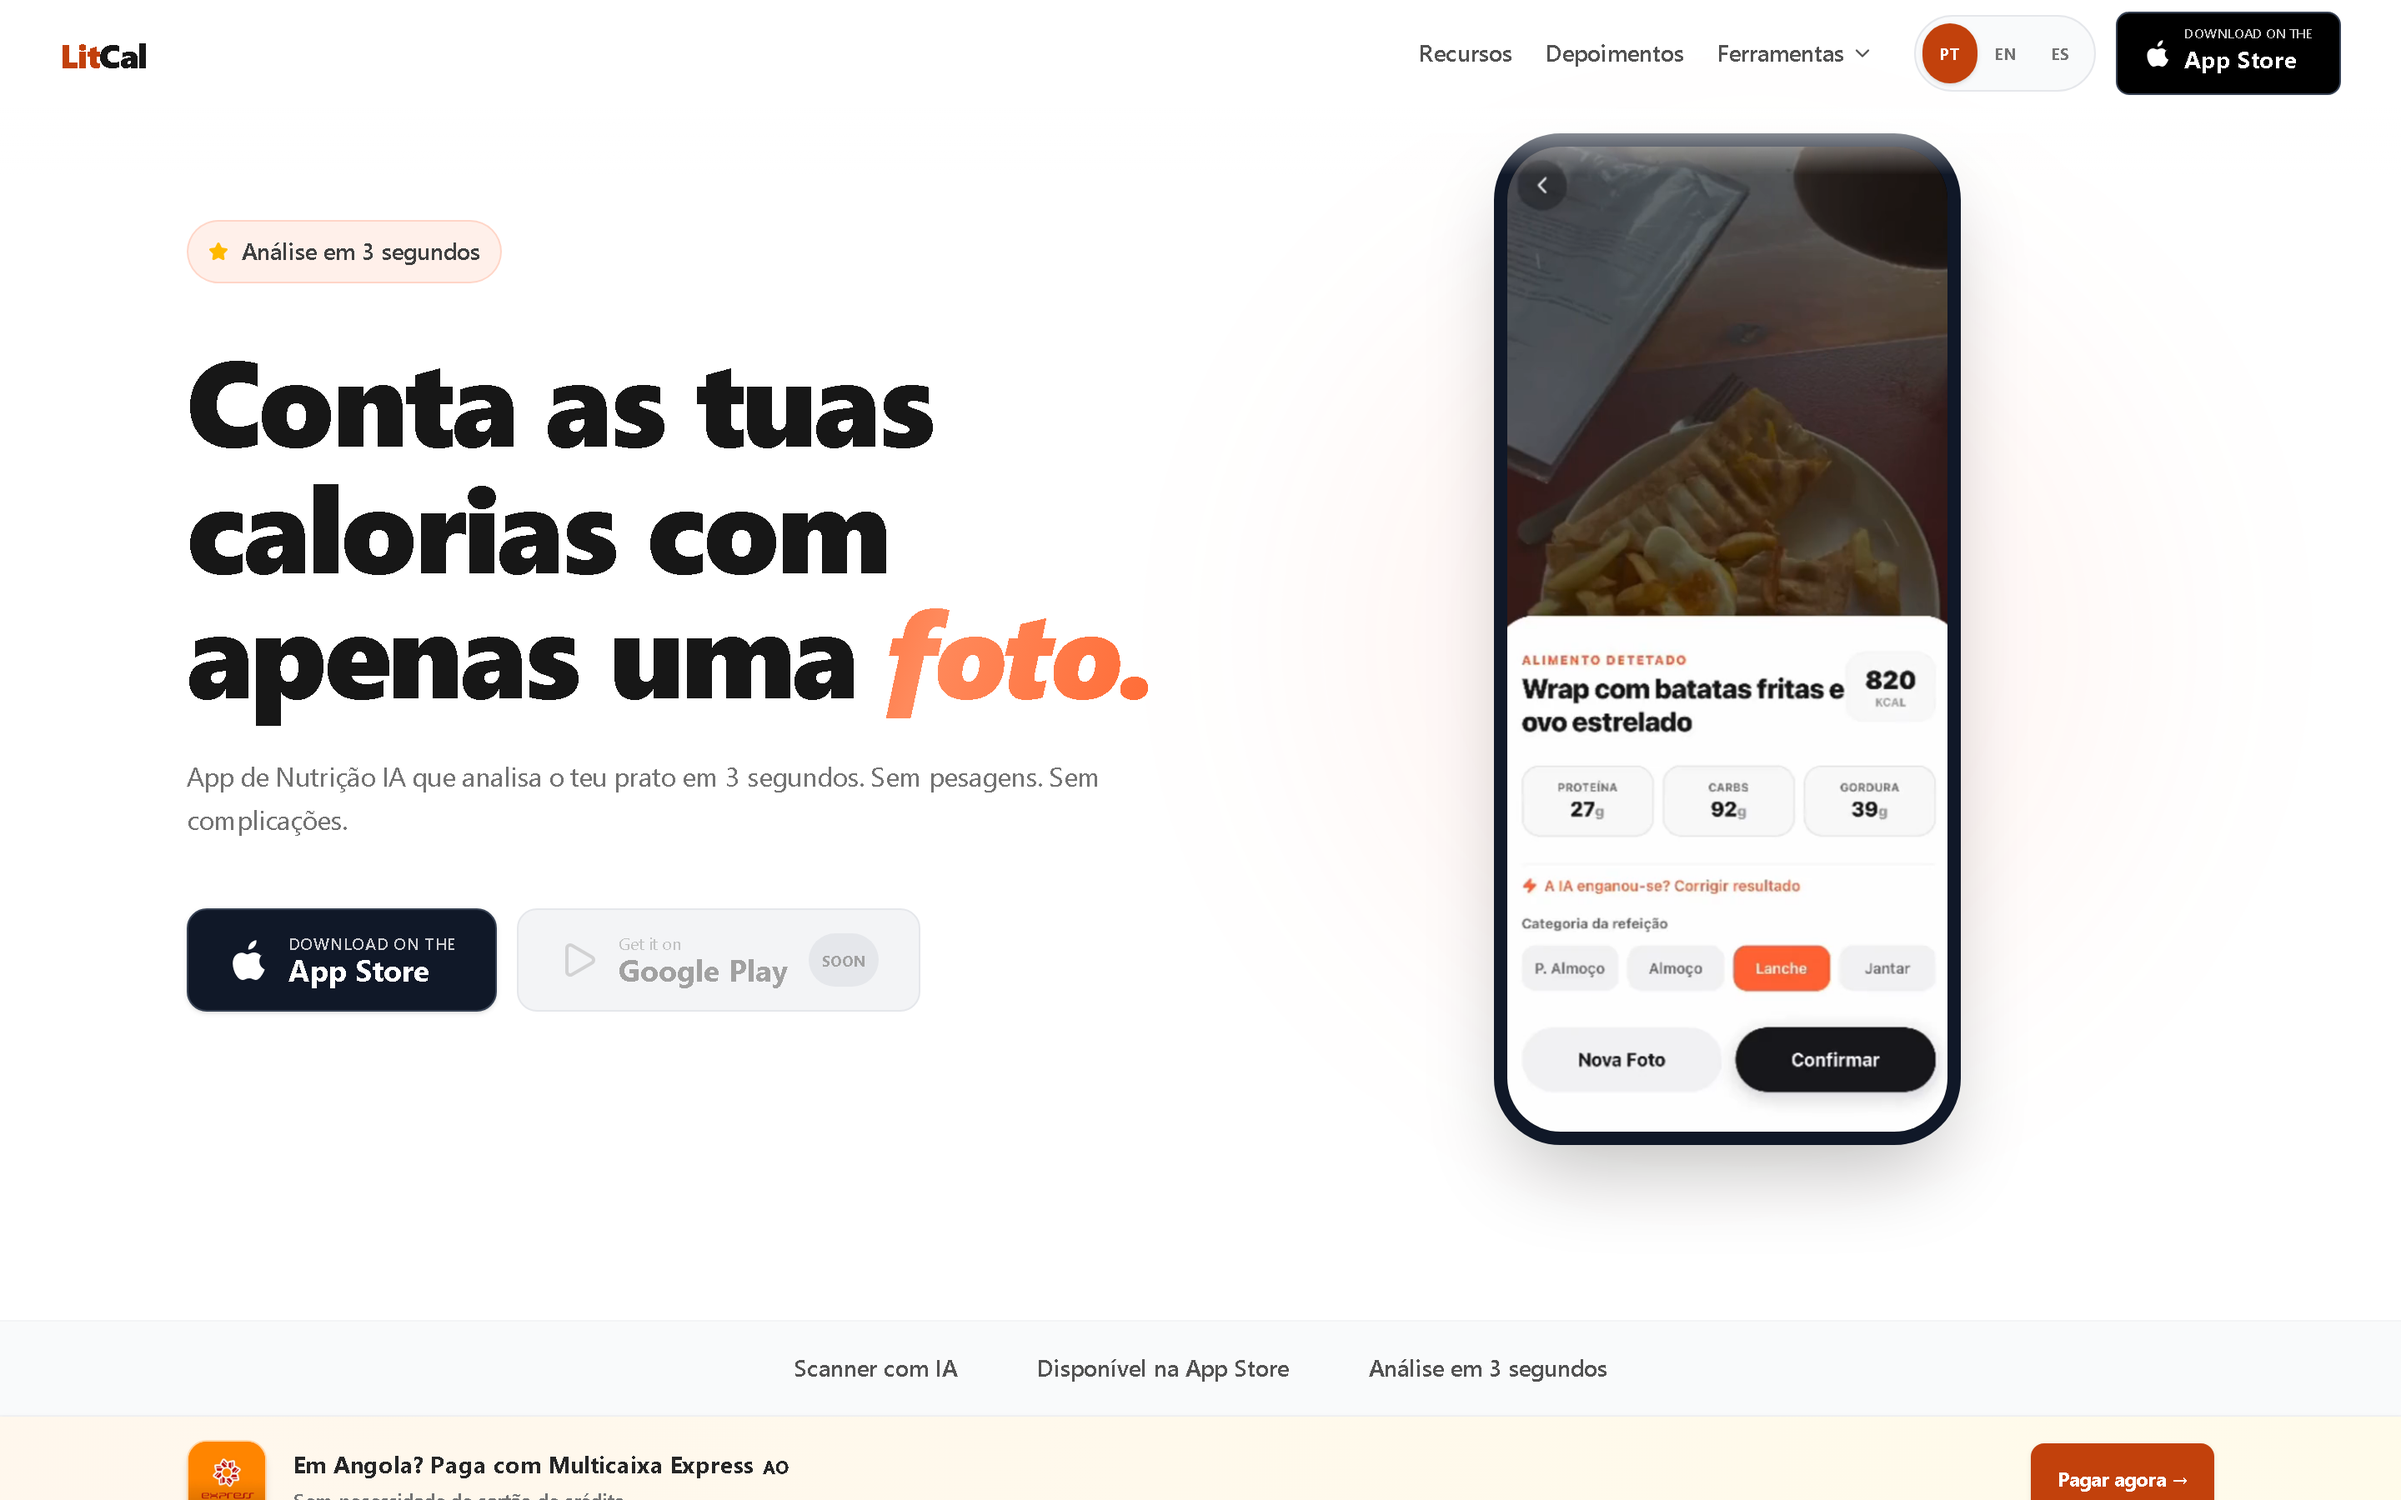
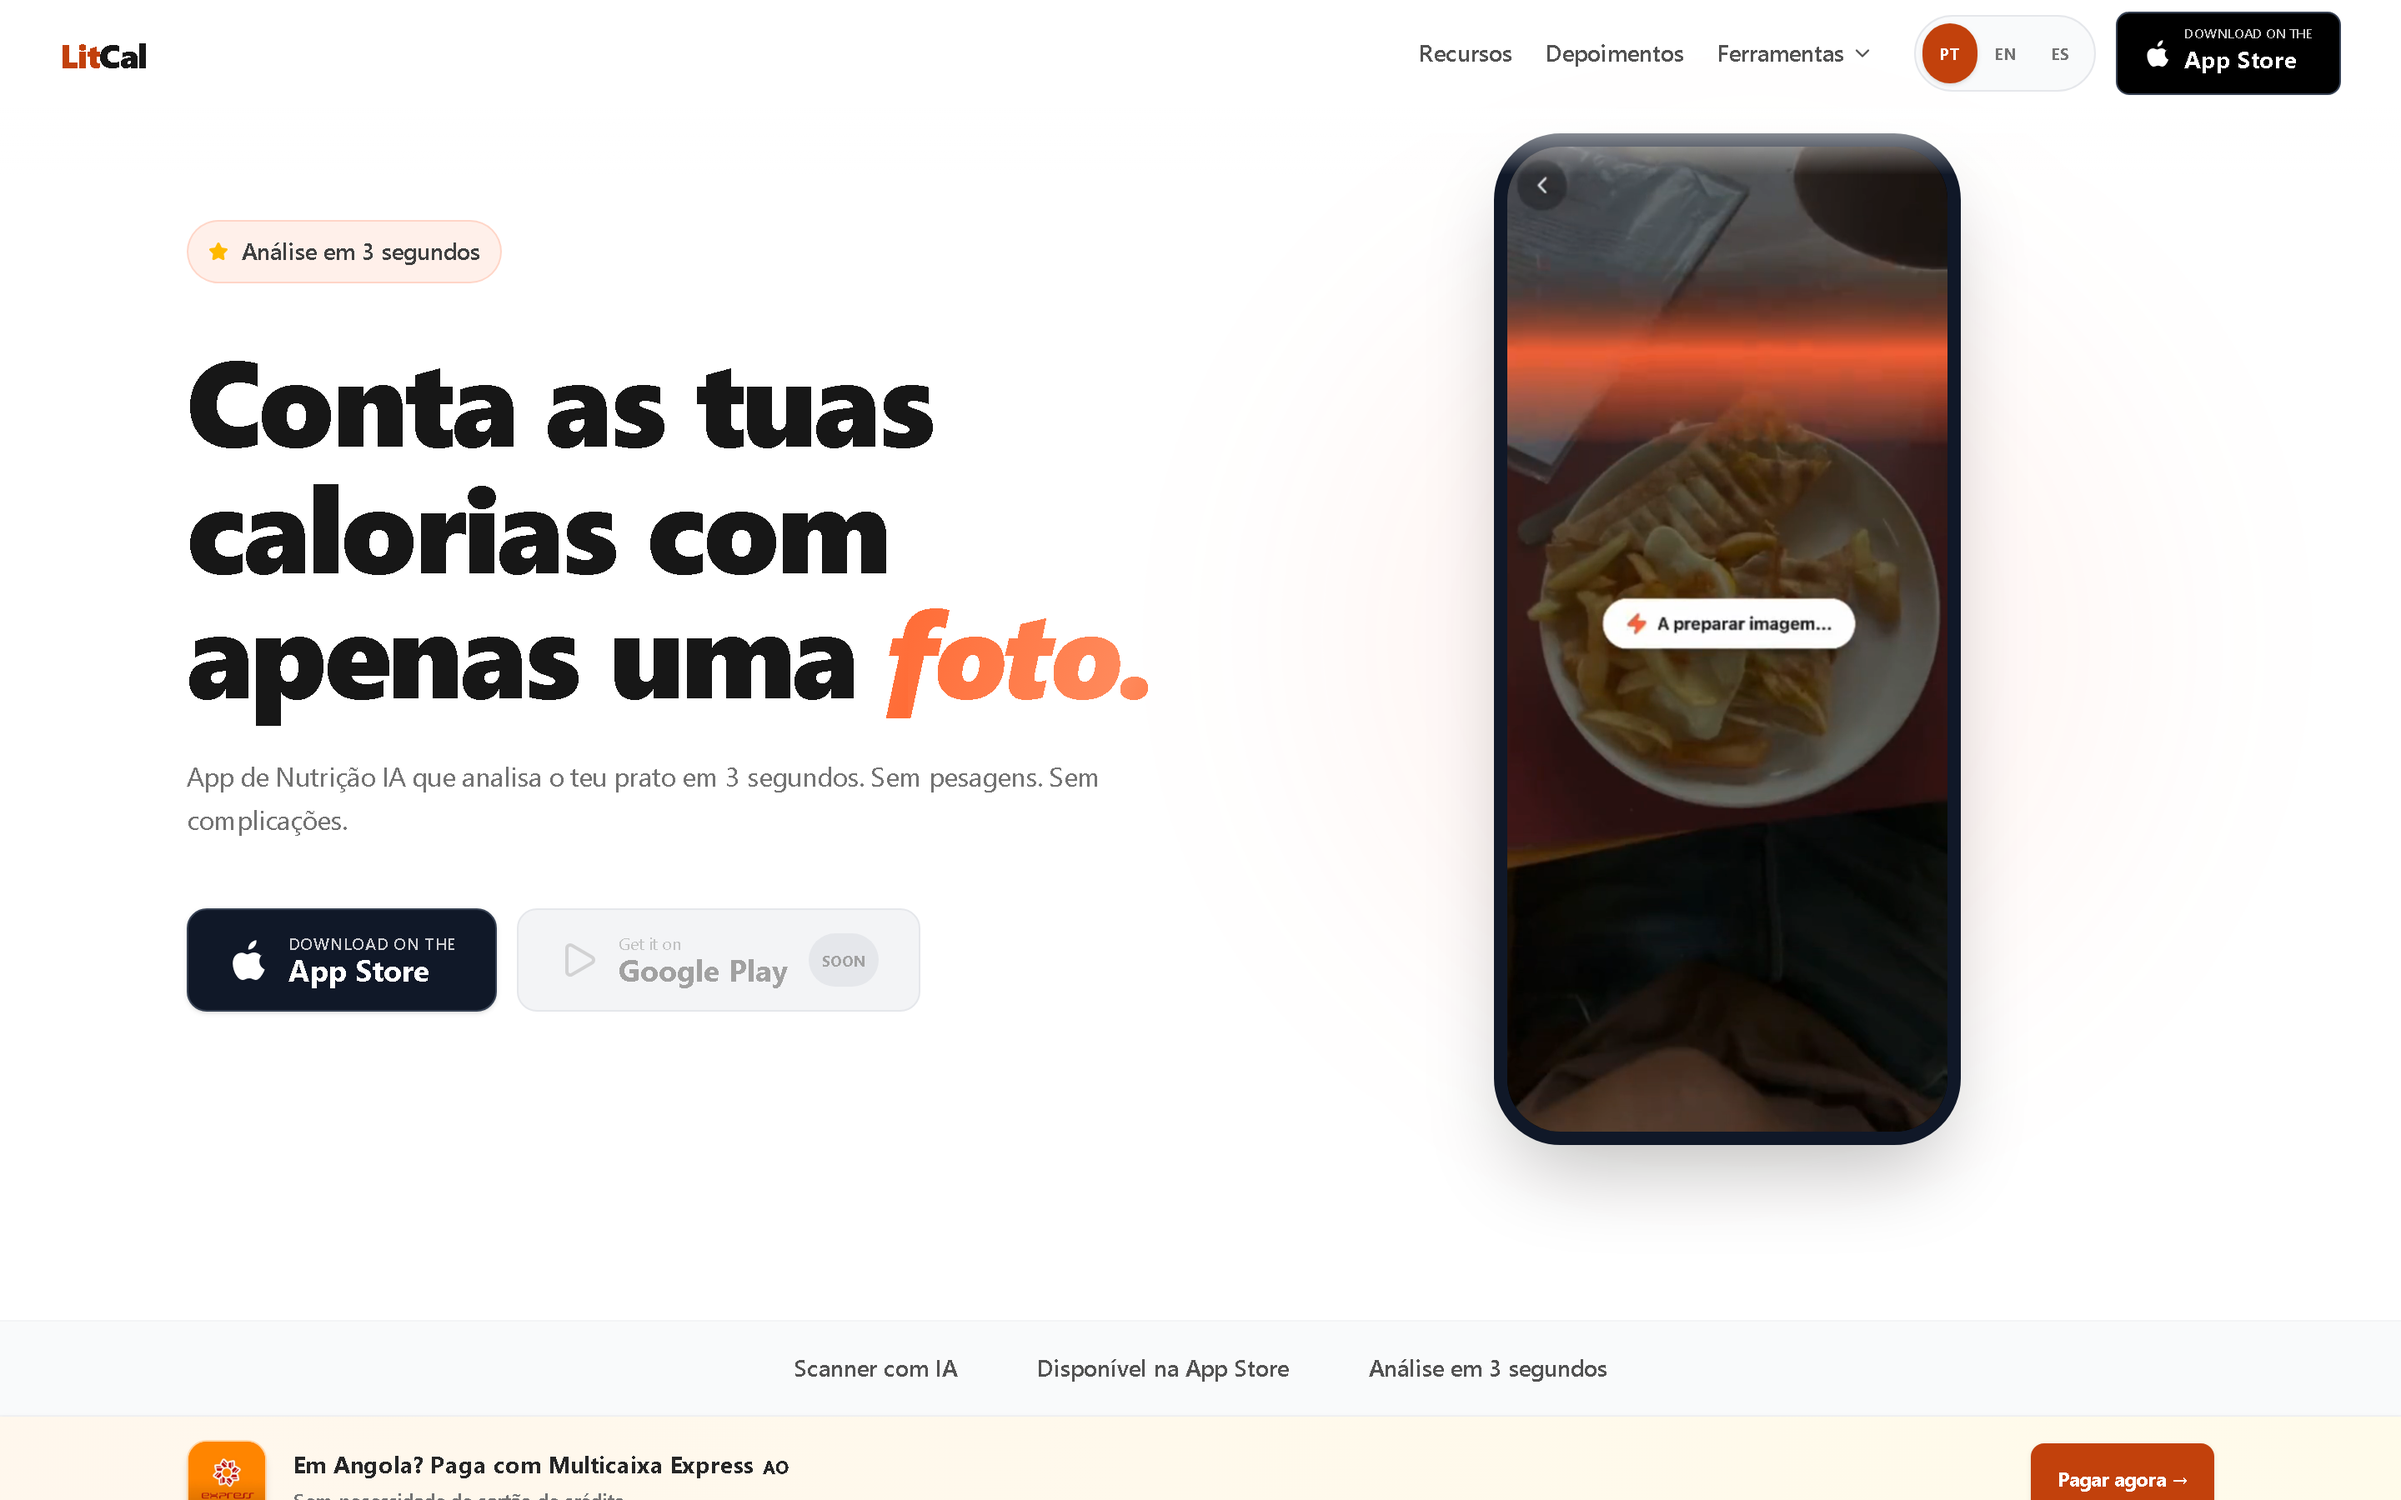
Professional screenshots: device mockups, three mobile screens, desktop

diff --git a/README.md b/README.md
@@ -14,14 +14,16 @@ AI nutrition app for iOS, live on the App Store. Take a photo of a meal and get 
 
 - **Photo to macros:** meal analysis from a single photo with GPT-4 Vision.
 - **Shipped fast:** from first commit to App Store release in 2 weeks.
-- **Monetized:** subscriptions with RevenueCat and Multicaixa Express.
+- **Monetized:** tiered subscriptions with RevenueCat and Multicaixa Express.
 - **Traction:** 600+ downloads and 1,000+ USD revenue in the first month, with no paid ads.
 
-## Screenshots
+## Mobile
 
-| Desktop | Mobile |
-|---|---|
-| <img src="screenshots/desktop.png" width="520"> | <img src="screenshots/mobile.png" width="200"> |
+<img src="screenshots/mobile.png" alt="LitCal mobile screens" width="100%">
+
+## Desktop
+
+<img src="screenshots/desktop.png" alt="LitCal desktop" width="100%">
 
 ## Stack
 
@@ -37,4 +39,8 @@ The source code is private because it belongs to the client. I am happy to walk 
 
 ---
 
-Built by **[Erick Rodrigues](https://github.com/Erickrodrigues05)**, Full-Stack Developer · erickrodrigues781@gmail.com
+<div align="center">
+
+Built by **[Erick Rodrigues](https://github.com/Erickrodrigues05)**, Full-Stack Developer · [erickrodrigues781@gmail.com](mailto:erickrodrigues781@gmail.com)
+
+</div>
